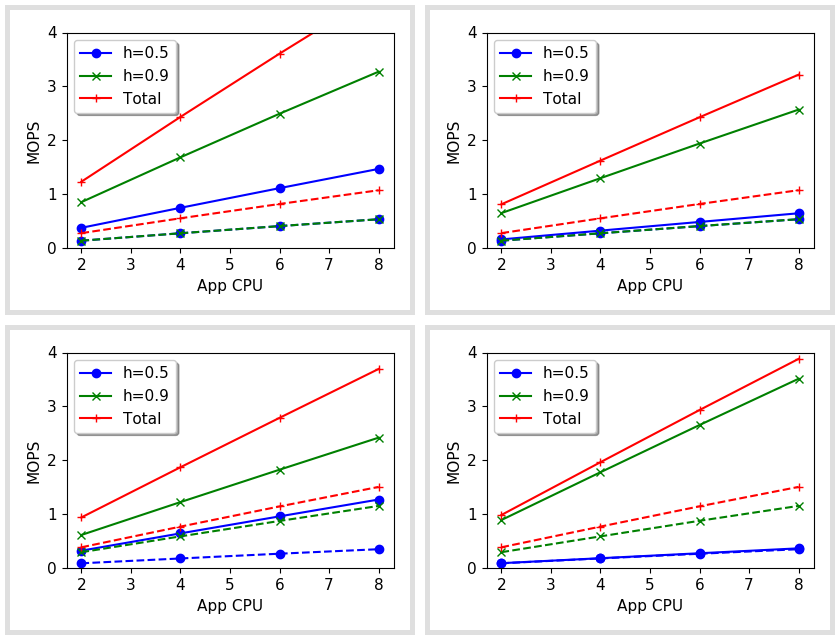
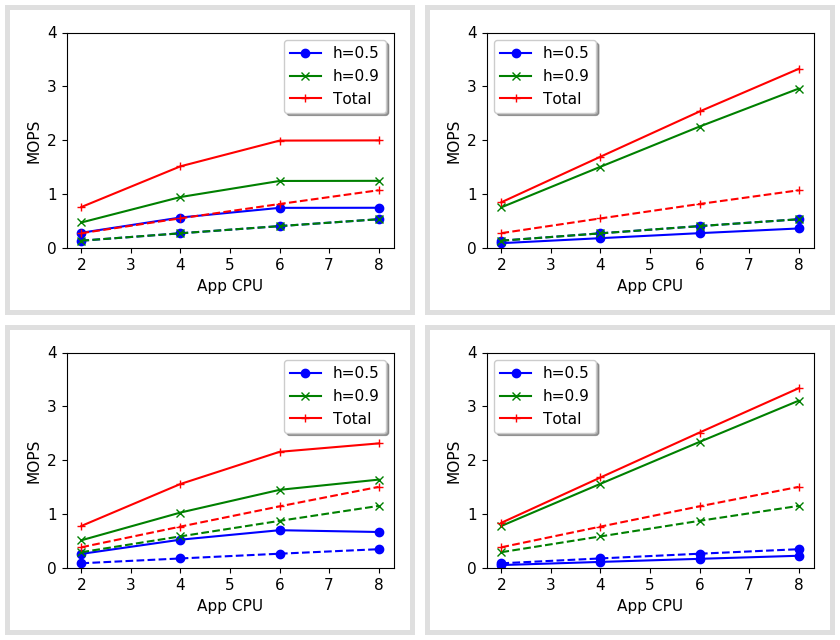
simulation edits

diff --git a/sim/simulate.c b/sim/simulate.c
@@ -257,7 +257,7 @@ void* konacore_main(void* args) {
     uint64_t received[MAX_APP_CORES] = {0}, serviced[MAX_APP_CORES] = {0};
     uint64_t now_tsc, response_time_tsc;
     uint64_t fault_time_tsc = (uint64_t)((fault_time_ns * cycles_per_us) / 1000.0);
-    uint64_t upcall_time_tsc = 0; // (uint64_t)((upcall_time_ns * cycles_per_us) / 1000.0);
+    uint64_t upcall_time_tsc = (uint64_t)((upcall_time_ns * cycles_per_us) / 1000.0);
 
     struct thread_data * tdata = (struct thread_data *)args;
     pthread_setname_np(pthread_self(), tdata->name);
